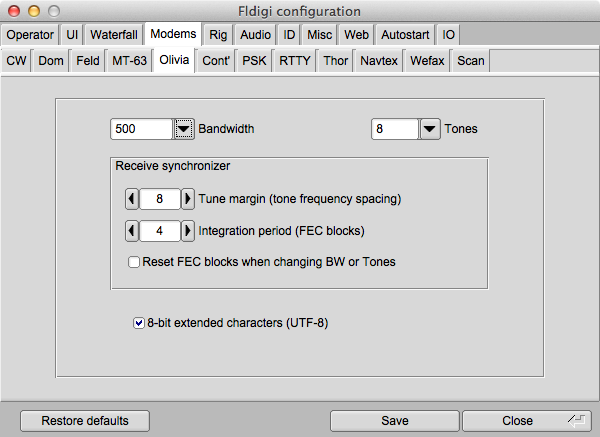
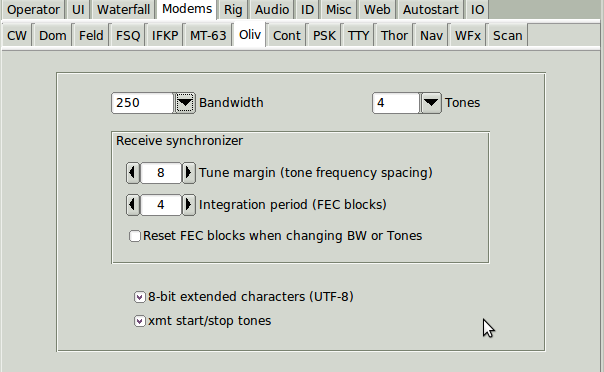
Olivia/Contestia start stop tones
* add ability to disable start/stop tones in Olivia and
    Contestia

diff --git a/src/include/configuration.h b/src/include/configuration.h
@@ -517,6 +517,9 @@
         ELEM_(bool, olivia8bit, "OLIVIA8BIT",                                           \
               "8-bit extended characters",                                              \
               true)                                                                     \
+        ELEM_(bool, olivia_start_tones, "OLIVIASTARTTONES",                             \
+              "Send start/stop tones",                                                  \
+              true)                                                                     \
         /* CONTESTIA */                                                                 \
         ELEM_(int, contestiatones, "CONTESTIATONES",                                    \
               "Number of tones. Values are as follows:\n"                               \
@@ -538,6 +541,9 @@
         ELEM_(bool, contestia_reset_fec, "CONTESTIARESETFEC",                           \
               "Force Integration (FEC) depth to be reset when new BW/Tones selected",   \
               false)                                                                    \
+        ELEM_(bool, contestia_start_tones, "CONTESTIASTARTTONES",                       \
+              "Send start/stop tones",                                                  \
+              true)                                                                     \
         /* THOR */                                                                      \
         ELEM_(double, THOR_BW, "THORBW",                                                \
               "Filter bandwidth factor (bandwidth relative to signal width)",           \

diff --git a/src/include/confdialog.h b/src/include/confdialog.h
@@ -357,12 +357,14 @@ extern Fl_Counter2 *cntOlivia_smargin;
 extern Fl_Counter2 *cntOlivia_sinteg;
 extern Fl_Check_Button *btn_olivia_reset_fec;
 extern Fl_Check_Button *btnOlivia_8bit;
+extern Fl_Check_Button *btnOlivia_start_stop_tones;
 extern Fl_Group *tabContestia;
 extern Fl_ListBox *i_listbox_contestia_bandwidth;
 extern Fl_ListBox *i_listbox_contestia_tones;
 extern Fl_Counter2 *cntContestia_smargin;
 extern Fl_Counter2 *cntContestia_sinteg;
 extern Fl_Check_Button *btnContestia_8bit;
+extern Fl_Check_Button *btnContestia_start_stop_tones;
 extern Fl_Group *tabPSK;
 extern Fl_Tabs *tabsPSK;
 extern Fl_Group *grpPSK;
